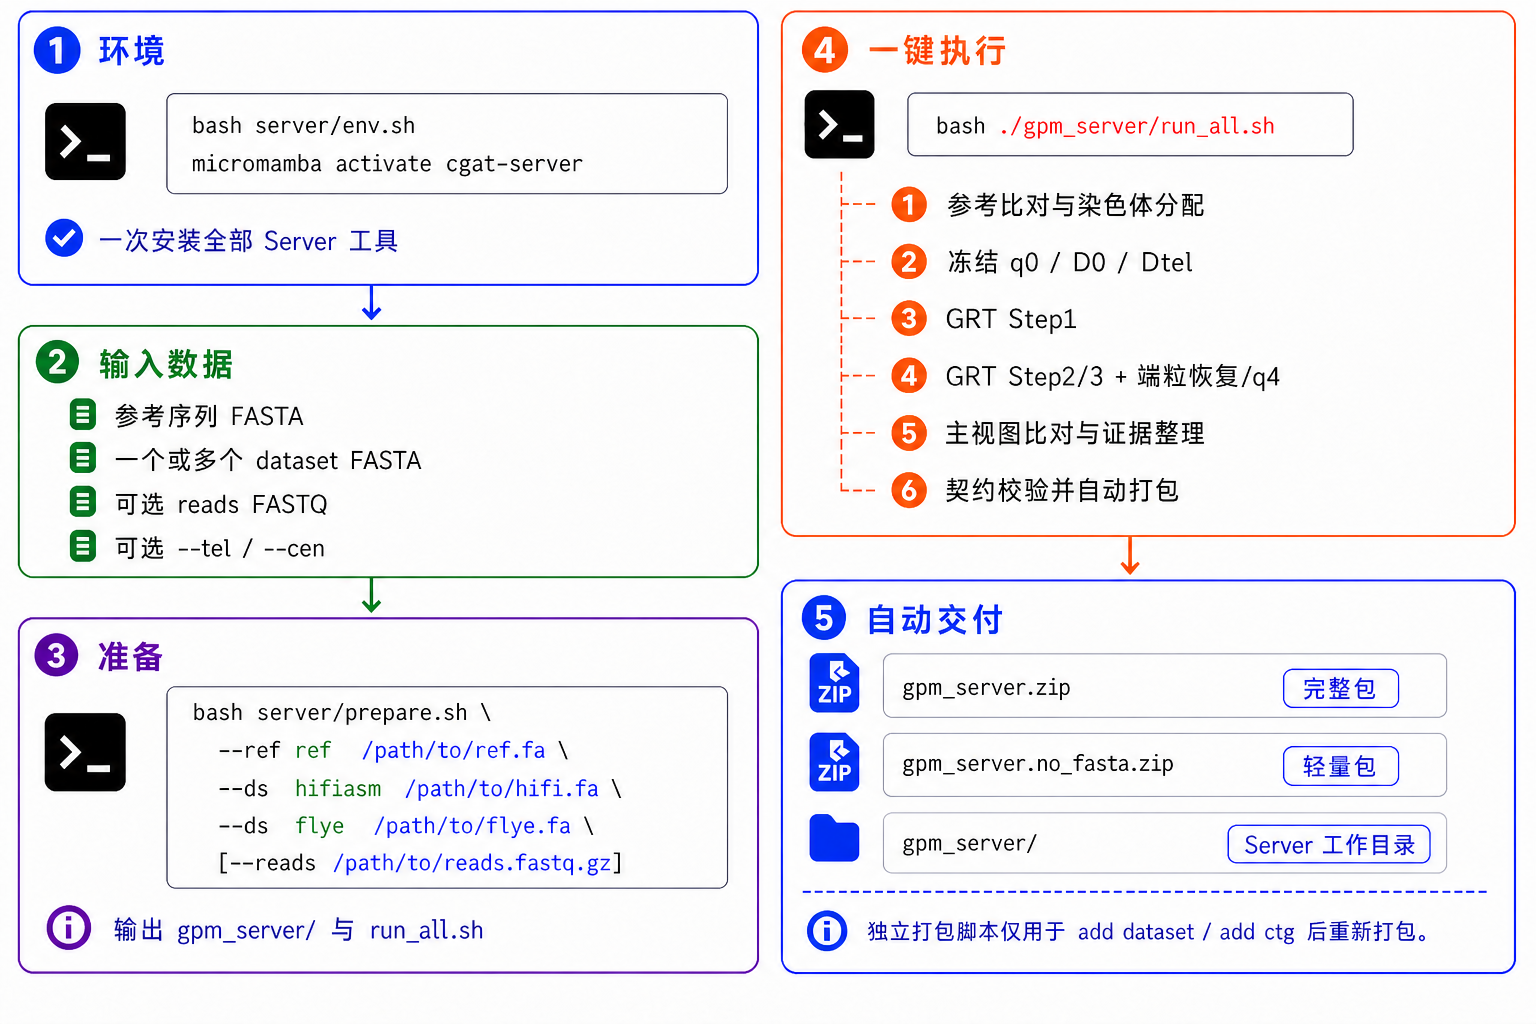
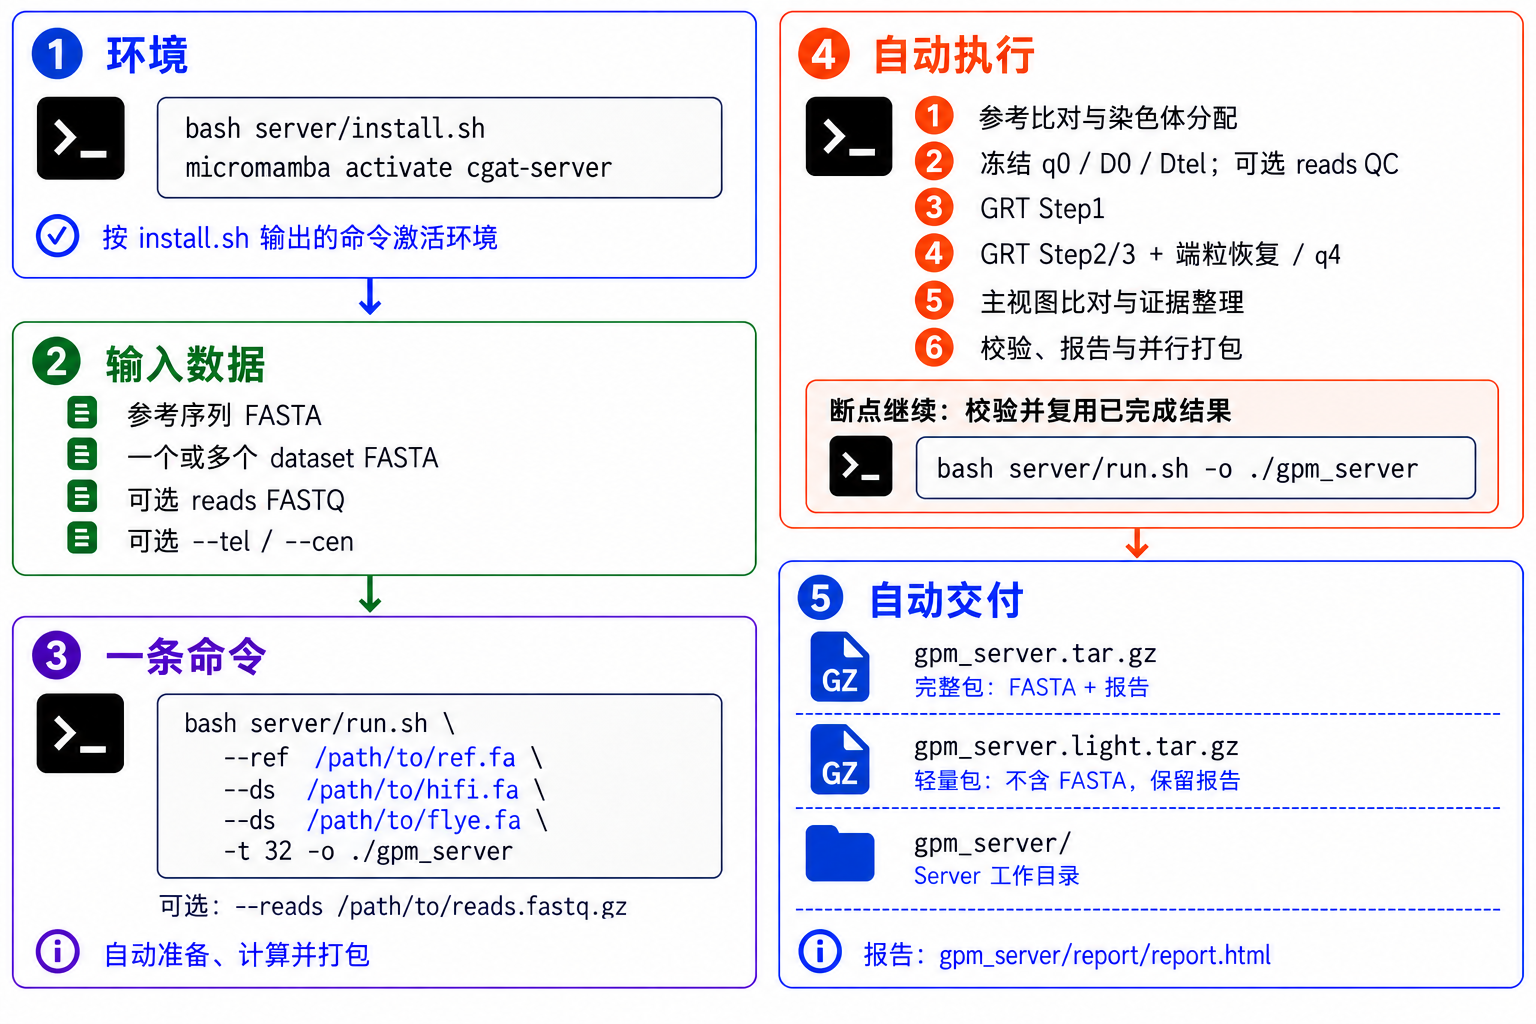
docs: refresh Server workflow diagrams and simplify dataset guidance

diff --git a/GPM2.0/README.md b/GPM2.0/README.md
@@ -171,9 +171,9 @@ The package preserves the primary and support dataset roles established during G
 
 ### Project dataset tables
 
-After import or opening a project, the project page lists the reference genome first, followed by primary, support, and project-linked derived datasets in one table. The first column is Data type. Reads QC status appears beside the project title; creation time sits below the table on the right. Rows show sequence count, total length, N50, and N90. The edit button opens a dialog for the name and note; More information only shows local directories and open-folder actions. Chromosome partitions are grouped at the chr directory, with other locations kept separately. Statistics use all sequence lengths in the current dataset, without a minimum length filter or splitting at Ns. Moving or hiding assembly views does not change them. These statistics also work with Light packages and require no additional Server quality-control step.
+The project page summarizes sequence count, total length, N50, and N90 for the reference, primary, support, and derived datasets. Statistics include all sequences without splitting at Ns and are unaffected by moving or hiding contigs in assembly views. Light packages support the same statistics.
 
-Use the row's edit button or note summary to edit its display name and note. “Restore initial name” fills in the initial name; click “Save” to persist it. Names and notes are stored in the workspace SQLite database and survive reopening. Original package identifiers, filenames, and sequence names stay stable for incremental imports, computation, and export provenance. Notes apply to table objects, not individual contig placements. Available local sequence files support copying paths and opening their containing folders in the desktop App; missing or omitted FASTA files are marked unavailable. Existing workspace databases upgrade automatically on first open.
+Display names and notes are editable; original identifiers, filenames, and sequence names remain unchanged.
 
 ### Export Final Path FASTA from a Light package
 

diff --git a/GPM2.0/README_zh.md b/GPM2.0/README_zh.md
@@ -171,9 +171,9 @@ xattr -dr com.apple.quarantine /Applications/GPM2.0.app
 
 ### 项目数据集表格
 
-导入或打开项目后，项目页在同一张表中依次展示参考基因组、主组装、辅助组装及与当前项目关联的派生数据集，第一列为“数据类型”。Reads 质控状态显示在项目标题旁，创建时间位于表格下方右侧。表格展示序列数、总长度、N50、N90；编辑按钮打开名称与备注弹窗，“更多信息”仅保留本地目录及打开目录操作，分染色体文件合并显示为 chr 总目录，其他位置单独保留。统计使用当前数据集的全部序列长度，不过滤短序列、不按 N 拆分，也不随组装视图中的移动、隐藏而改变；Light 轻量包同样支持这些统计，无需额外运行 Server 质控。
+项目页汇总参考、主组装、辅助组装及派生数据集的序列数、总长度、N50、N90。统计包含全部序列，不按 N 拆分，也不受组装视图中 contig 移动或隐藏的影响；Light 轻量包同样支持。
 
-点击行末编辑按钮或备注摘要，可修改显示名称及该行对象的备注；“恢复初始名称”填回初始名，点击“保存”后生效。名称与备注保存在项目工作区的 SQLite 数据库中，重新打开仍然保留。原始包标识、文件名和序列名保持稳定，供后续增量导入、计算和导出追溯使用。备注不扩展到单条 contig 的放置记录。完整包在文件实际存在时提供路径复制和打开所在目录；无 FASTA 或文件缺失时显示不可用。旧工作区首次打开时自动升级数据库结构。
+可编辑显示名称和备注，原始标识、文件名和序列名保持不变。
 
 ### 从 Light 轻量包导出 Final Path FASTA
 
